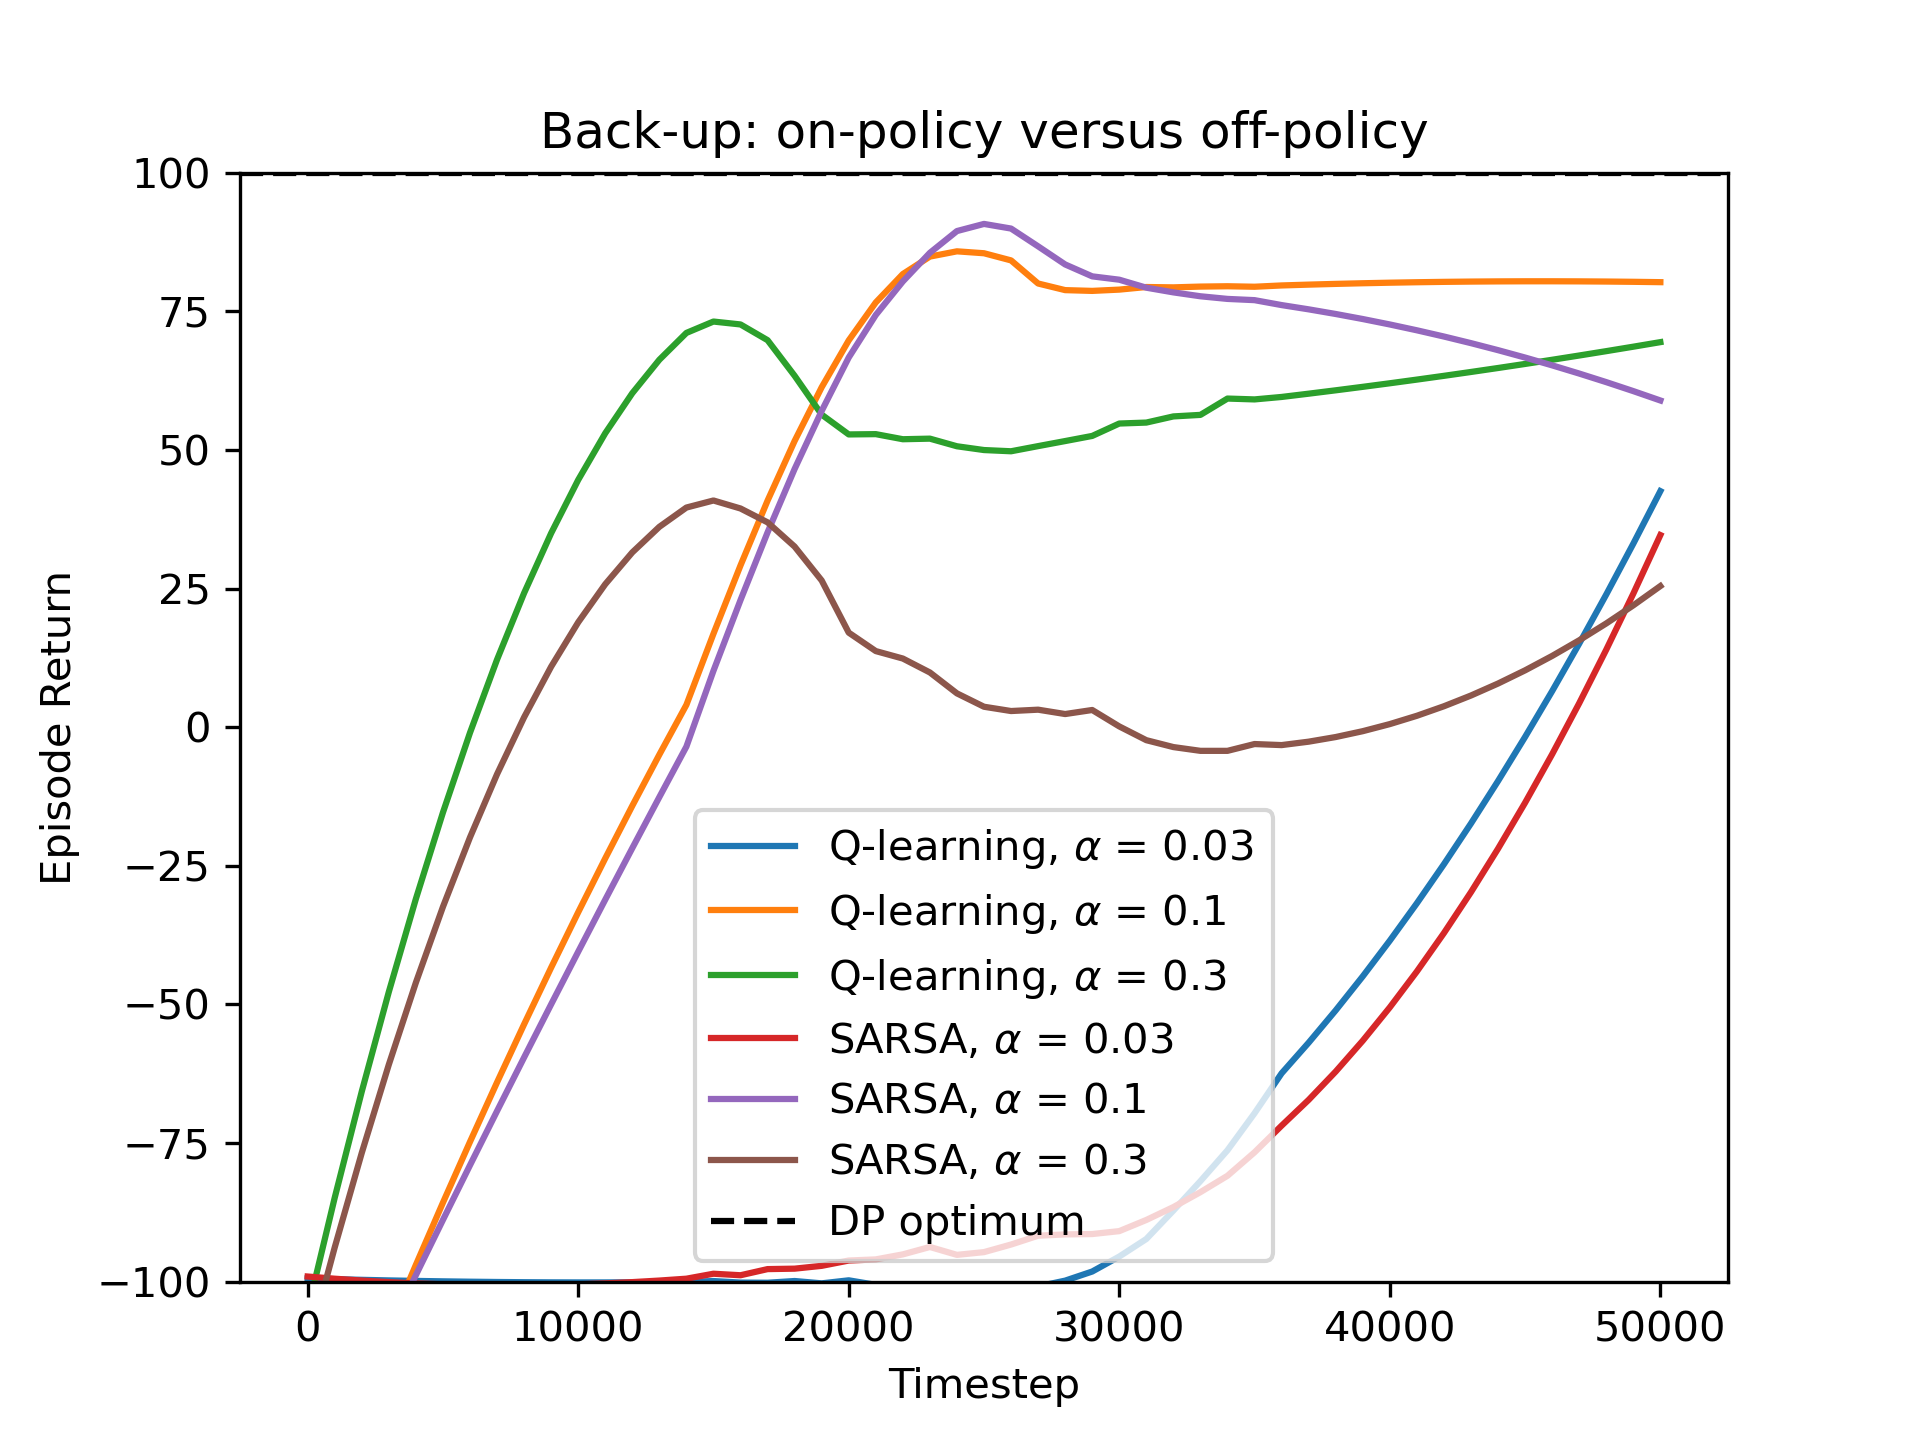
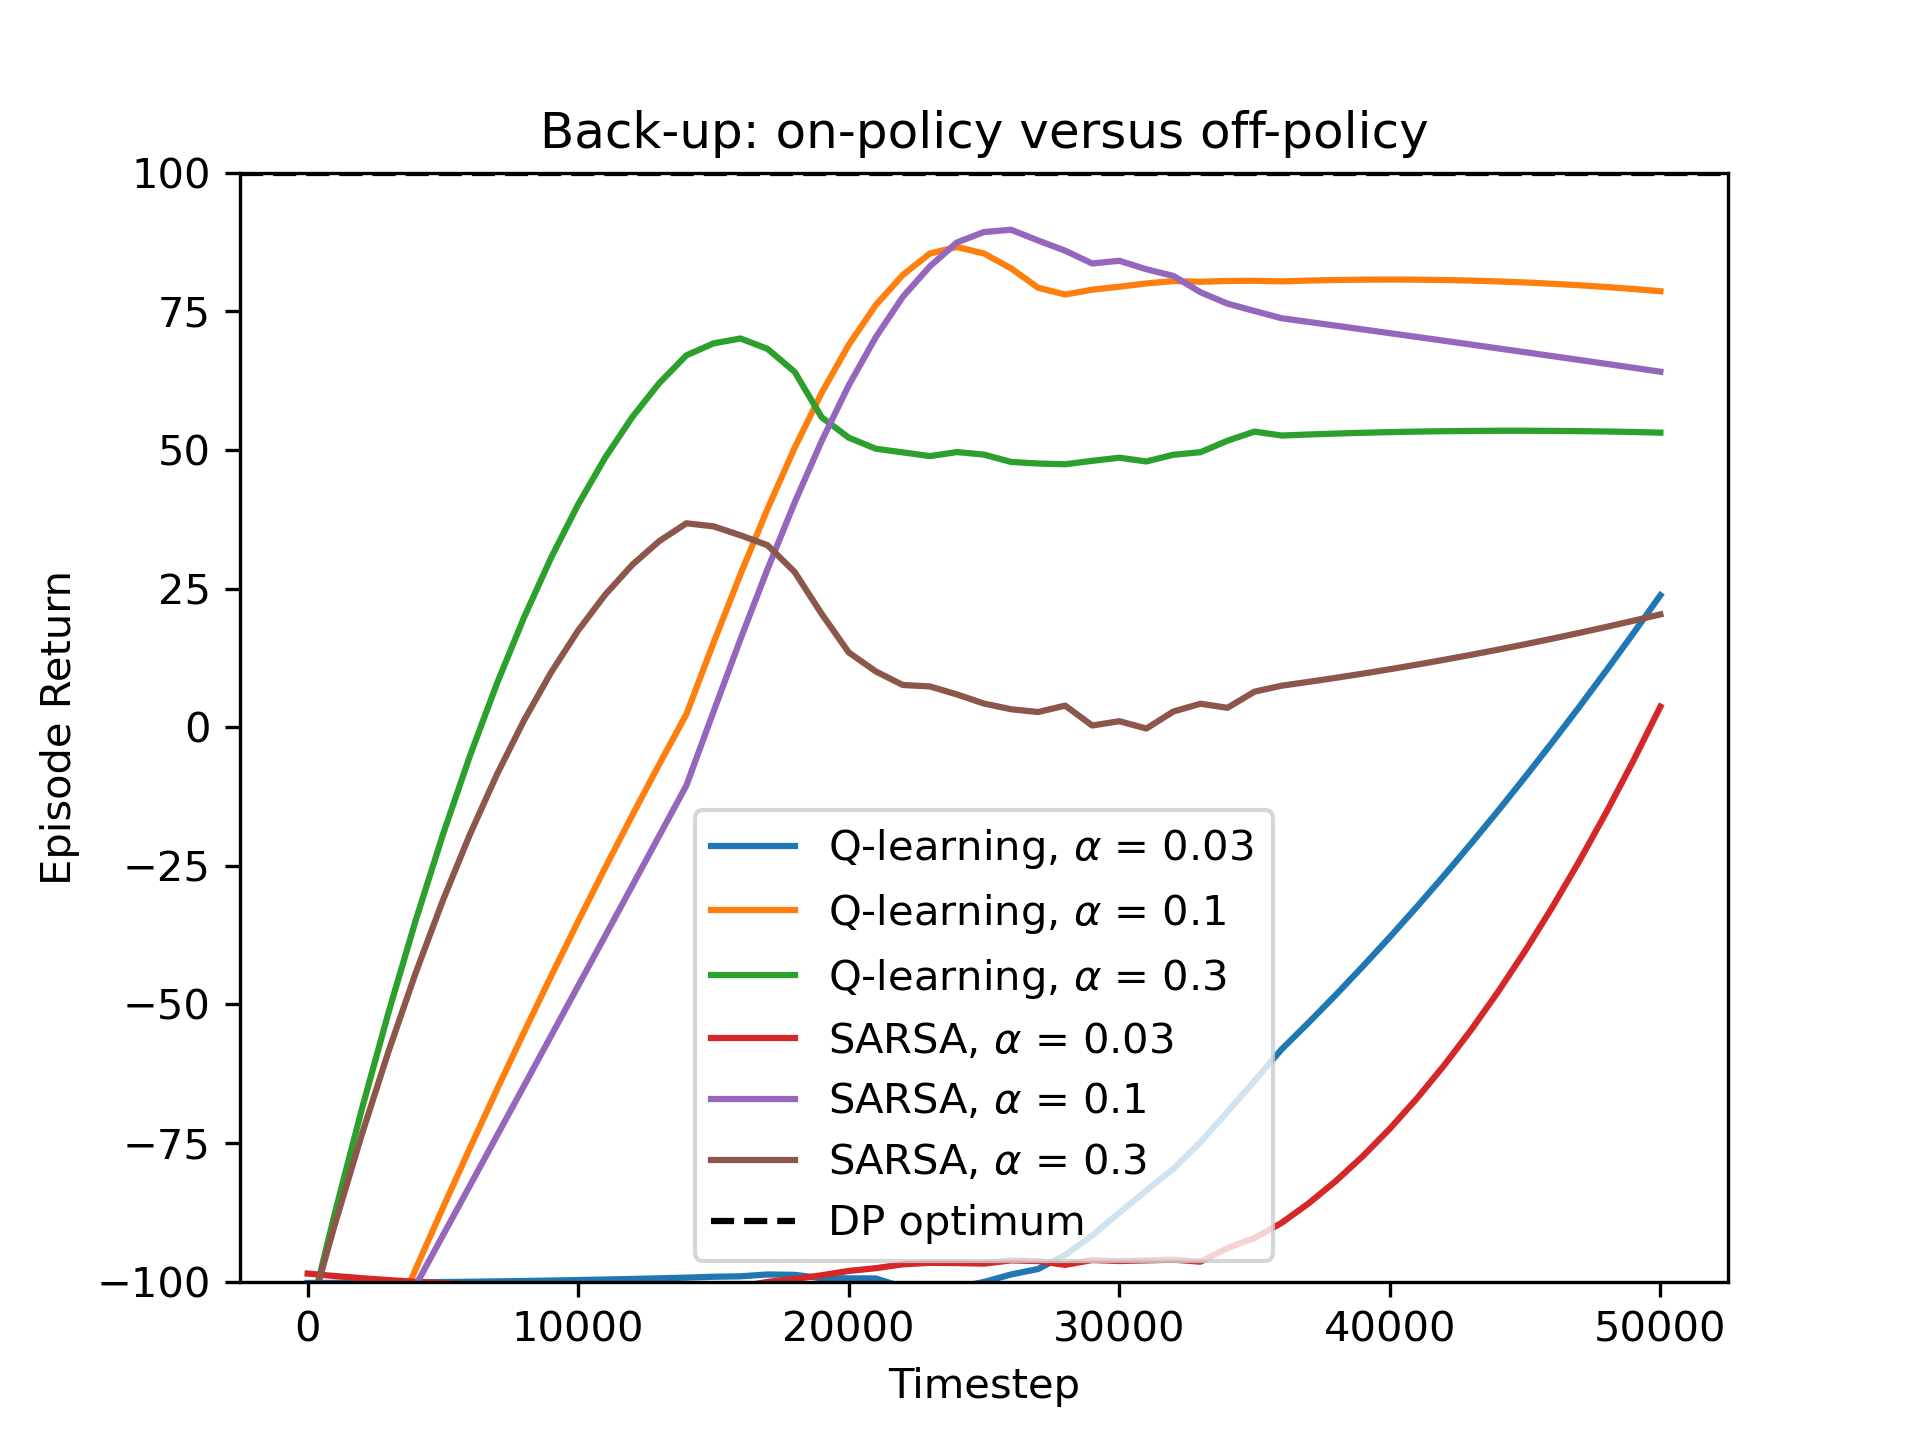
workable solution

diff --git a/Experiment.py b/Experiment.py
@@ -78,40 +78,40 @@ def experiment():
     optimal_episode_return = 100 # set the optimal return per episode you found in the DP assignment here
     
     #### Assignment 2: Effect of exploration
-    # policy = 'egreedy'
-    # epsilons = [0.03,0.1,0.3]
-    # learning_rate = 0.1
-    # backup = 'q'
-    # Plot = LearningCurvePlot(title = 'Exploration: $\epsilon$-greedy versus softmax exploration')    
-    # Plot.set_ylim(-100, 100) 
-    # for epsilon in epsilons:        
-    #     learning_curve, timesteps = average_over_repetitions(backup, n_repetitions, n_timesteps, max_episode_length, learning_rate, 
-    #                                           gamma, policy, epsilon, temp, smoothing_window, plot, n, eval_interval)
-    #     Plot.add_curve(timesteps,learning_curve,label=r'$\epsilon$-greedy, $\epsilon $ = {}'.format(epsilon))    
-    # policy = 'softmax'
-    # temps = [0.01,0.1,1.0]
-    # for temp in temps:
-    #     learning_curve, timesteps = average_over_repetitions(backup, n_repetitions, n_timesteps, max_episode_length, learning_rate, 
-    #                                           gamma, policy, epsilon, temp, smoothing_window, plot, n, eval_interval)
-    #     Plot.add_curve(timesteps,learning_curve,label=r'softmax, $ \tau $ = {}'.format(temp))
-    # Plot.add_hline(optimal_episode_return, label="DP optimum")
-    # Plot.save('exploration.png')
+    policy = 'egreedy'
+    epsilons = [0.03,0.1,0.3]
+    learning_rate = 0.1
+    backup = 'q'
+    Plot = LearningCurvePlot(title = 'Exploration: $\epsilon$-greedy versus softmax exploration')    
+    Plot.set_ylim(-100, 100) 
+    for epsilon in epsilons:        
+        learning_curve, timesteps = average_over_repetitions(backup, n_repetitions, n_timesteps, max_episode_length, learning_rate, 
+                                              gamma, policy, epsilon, temp, smoothing_window, plot, n, eval_interval)
+        Plot.add_curve(timesteps,learning_curve,label=r'$\epsilon$-greedy, $\epsilon $ = {}'.format(epsilon))    
+    policy = 'softmax'
+    temps = [0.01,0.1,1.0]
+    for temp in temps:
+        learning_curve, timesteps = average_over_repetitions(backup, n_repetitions, n_timesteps, max_episode_length, learning_rate, 
+                                              gamma, policy, epsilon, temp, smoothing_window, plot, n, eval_interval)
+        Plot.add_curve(timesteps,learning_curve,label=r'softmax, $ \tau $ = {}'.format(temp))
+    Plot.add_hline(optimal_episode_return, label="DP optimum")
+    Plot.save('exploration-5-36.png')
         
     ###### Assignment 3: Q-learning versus SARSA
     print('Running Q-learning versus SARSA')
-    # policy = 'egreedy'
-    # epsilon = 0.1 # set epsilon back to original value 
-    # learning_rates = [0.03,0.1,0.3]
-    # backups = ['q','sarsa']
-    # Plot = LearningCurvePlot(title = 'Back-up: on-policy versus off-policy')    
-    # Plot.set_ylim(-100, 100) 
-    # for backup in backups:
-    #     for learning_rate in learning_rates:
-    #         learning_curve, timesteps = average_over_repetitions(backup, n_repetitions, n_timesteps, max_episode_length, learning_rate, 
-    #                                           gamma, policy, epsilon, temp, smoothing_window, plot, n, eval_interval)
-    #         Plot.add_curve(timesteps,learning_curve,label=r'{}, $\alpha$ = {} '.format(backup_labels[backup],learning_rate))
-    # Plot.add_hline(optimal_episode_return, label="DP optimum")
-    # Plot.save('on_off_policy.png')
+    policy = 'egreedy'
+    epsilon = 0.1 # set epsilon back to original value 
+    learning_rates = [0.03,0.1,0.3]
+    backups = ['q','sarsa']
+    Plot = LearningCurvePlot(title = 'Back-up: on-policy versus off-policy')    
+    Plot.set_ylim(-100, 100) 
+    for backup in backups:
+        for learning_rate in learning_rates:
+            learning_curve, timesteps = average_over_repetitions(backup, n_repetitions, n_timesteps, max_episode_length, learning_rate, 
+                                              gamma, policy, epsilon, temp, smoothing_window, plot, n, eval_interval)
+            Plot.add_curve(timesteps,learning_curve,label=r'{}, $\alpha$ = {} '.format(backup_labels[backup],learning_rate))
+    Plot.add_hline(optimal_episode_return, label="DP optimum")
+    Plot.save('on_off_policy-5-36.png')
     
     # ##### Assignment 4: Back-up depth
     print('Running n-step Q-learning and Monte Carlo')
@@ -132,7 +132,7 @@ def experiment():
     Plot.add_curve(timesteps,learning_curve,label='Monte Carlo')        
     Plot.add_hline(optimal_episode_return, label="DP optimum")
 
-    Plot.save('depth-500001--1-22-pm.png')
+    Plot.save('depth-5-36.png')
 
 if __name__ == '__main__':
     experiment()

diff --git a/MonteCarlo.py b/MonteCarlo.py
@@ -19,17 +19,10 @@ class MonteCarloAgent(BaseAgent):
         done indicates whether the final s in states is was a terminal state '''
         # TO DO: Add own code
         T_ep = len(actions)
-        G = 100
-        for t in reversed(range(T_ep - 1)):
-            # if t == T_ep - 1:
-            #     # G = 100
-            #     g = 0
-
-                # print("s terminal", states[t])
-            # else:      
+        G = 0
+        for t in reversed(range(T_ep)):
             G = self.gamma * G + rewards[t]
             self.Q_sa[states[t], actions[t]] += self.learning_rate * (G - self.Q_sa[states[t], actions[t]])
-
 
 def monte_carlo(n_timesteps, max_episode_length, learning_rate, gamma, 
                    policy='egreedy', epsilon=None, temp=None, plot=True, eval_interval=500):
@@ -59,12 +52,10 @@ def monte_carlo(n_timesteps, max_episode_length, learning_rate, gamma,
             rewards.append(r)
             
             if done:
-                # print(f"s = {s}, a = {a}, s_next = {s_next}, r = {r}, done = {done}")
                 # print('Episode finished after {} timesteps'.format(e+1))
                 break
             s = s_next
         # Update Q-values
-        
         pi.update(states, actions, rewards, done)
         # env.render(Q_sa=pi.Q_sa,plot_optimal_policy=True,step_pause=0.1)
 
@@ -80,7 +71,7 @@ def monte_carlo(n_timesteps, max_episode_length, learning_rate, gamma,
     return np.array(eval_returns), np.array(eval_timesteps) 
     
 def test():
-    n_timesteps = 10000
+    n_timesteps = 1000
     max_episode_length = 100
     gamma = 1.0
     learning_rate = 0.1

diff --git a/Nstep.py b/Nstep.py
@@ -42,7 +42,7 @@ class NstepQLearningAgent(BaseAgent):
                 G_t = 0
                 m = min(n, T_ep - t)
                 # print("tp",T_ep - t)
-                if done or t + n >= T_ep:
+                if done and t + n >= T_ep:
                     for i in range(T_ep - t):
                         G_t += self.gamma ** i * rewards[t+i]
                 else:
@@ -79,12 +79,11 @@ def n_step_Q(n_timesteps, max_episode_length, learning_rate, gamma,
             states.append(s)
             actions.append(a)
             rewards.append(r)
-            # pi.update(states, actions, rewards, done, n)
+      
             if done:
-                # print("done")
                 break
             s = s_next
-            # print("episode: ", e)
+
         # Update Q-values
         pi.update(states, actions, rewards, done, n)
         # env.render(Q_sa=pi.Q_sa,plot_optimal_policy=True,step_pause=0.1)

diff --git a/Q_learning.py b/Q_learning.py
@@ -37,6 +37,7 @@ def q_learning(n_timesteps, learning_rate, gamma, policy='egreedy', epsilon=None
     # TO DO: Write your Q-learning algorithm here!
     s = env.reset()
     for t in range(n_timesteps):
+        
         # Sample action
         a = agent.select_action(s, policy, epsilon, temp)
         # Simulate environment
@@ -64,7 +65,7 @@ def q_learning(n_timesteps, learning_rate, gamma, policy='egreedy', epsilon=None
     return np.array(eval_returns), np.array(eval_timesteps)   
 
 def test():
-    n_timesteps = 50000
+    n_timesteps = 10000
     eval_interval=100
     gamma = 1.0
     learning_rate = 0.1
